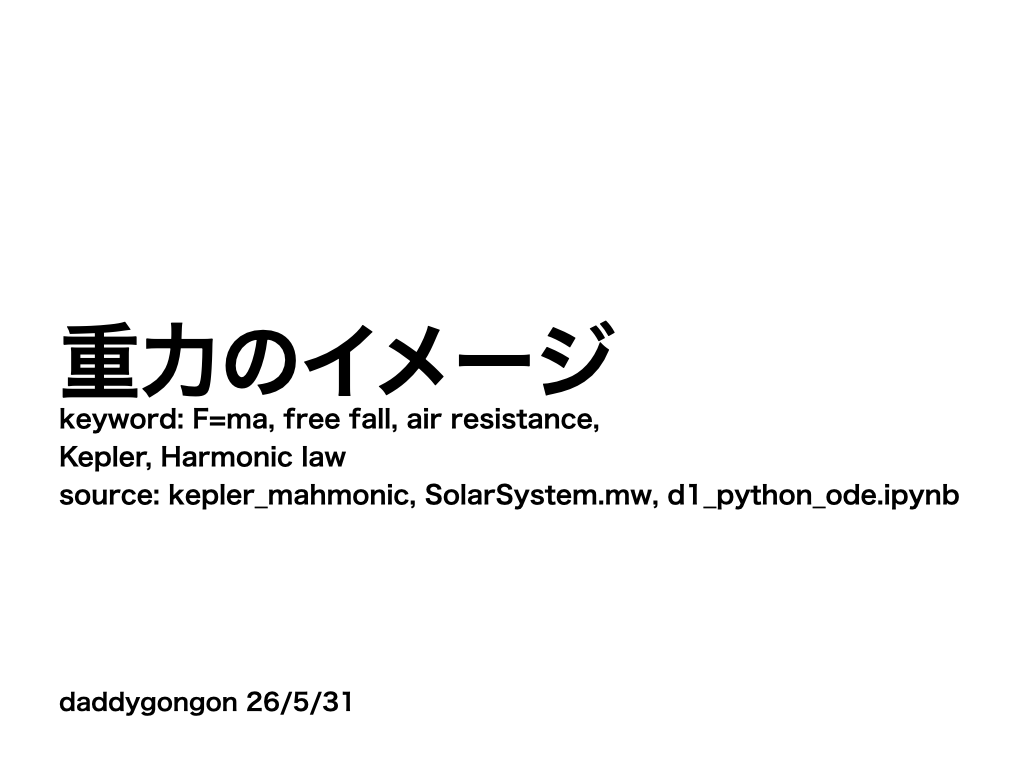
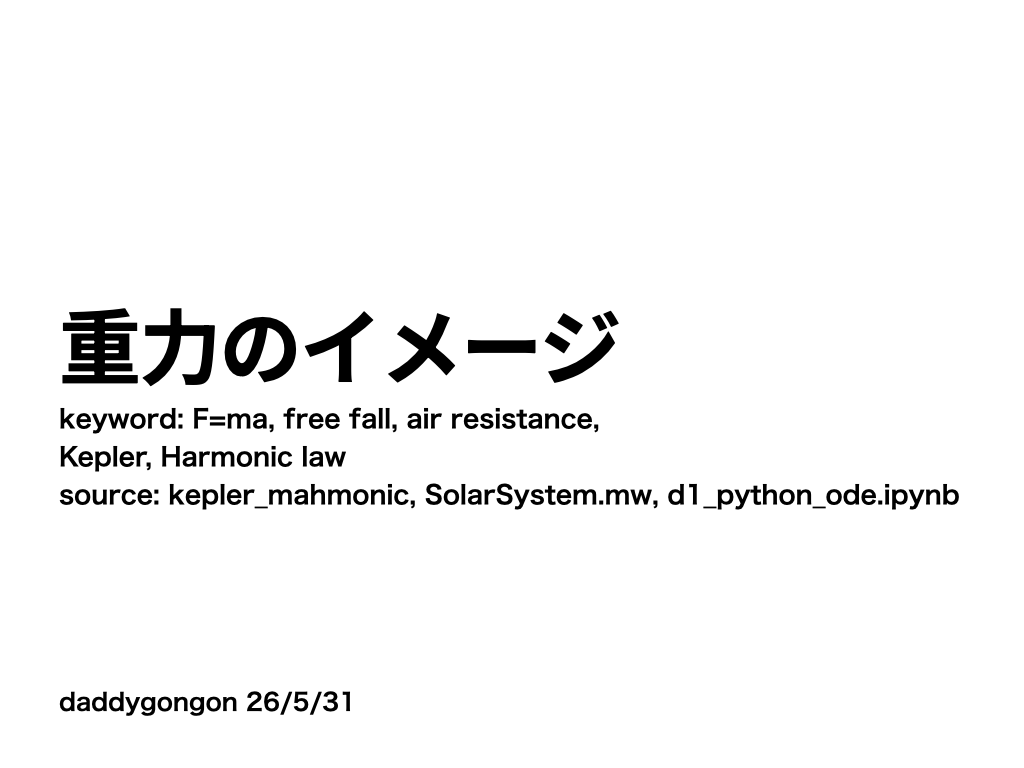
for Kepler revise

Changed region(s): [[0.0625, 0.375, 0.625, 0.5312]]

diff --git a/c2_solar_system/readme.html b/c2_solar_system/readme.html
@@ -3,7 +3,7 @@
 "http://www.w3.org/TR/xhtml1/DTD/xhtml1-strict.dtd">
 <html xmlns="http://www.w3.org/1999/xhtml" lang="jp" xml:lang="jp">
 <head>
-<!-- 2026-06-03 Wed 06:31 -->
+<!-- 2026-06-04 Thu 09:35 -->
 <meta http-equiv="Content-Type" content="text/html;charset=utf-8" />
 <meta name="viewport" content="width=device-width, initial-scale=1" />
 <title>ケプラーの法則イメージ / 卓上スパコン(西谷)</title>
@@ -194,16 +194,59 @@
   .org-svg { }
 </style>
 <link rel="stylesheet" type="text/css" href="style.css" />
+<script>
+  window.MathJax = {
+    tex: {
+      ams: {
+        multlineWidth: '85%'
+      },
+      tags: 'ams',
+      tagSide: 'right',
+      tagIndent: '.8em'
+    },
+    chtml: {
+      scale: 1.0,
+      displayAlign: 'center',
+      displayIndent: '0em'
+    },
+    svg: {
+      scale: 1.0,
+      displayAlign: 'center',
+      displayIndent: '0em'
+    },
+    output: {
+      font: 'mathjax-modern',
+      displayOverflow: 'overflow'
+    }
+  };
+</script>
+
+<script
+  id="MathJax-script"
+  async
+  src="https://cdn.jsdelivr.net/npm/mathjax@3/es5/tex-mml-chtml.js">
+</script>
 </head>
 <body>
 <div id="content" class="content">
 <h1 class="title">ケプラーの法則イメージ / 卓上スパコン(西谷)</h1>
+<div id="table-of-contents" role="doc-toc">
+<h2>Table of Contents</h2>
+<div id="text-table-of-contents" role="doc-toc">
+<ul>
+<li><a href="#org46c952b">1. ケプラーの法則のイメージ(重力場)</a></li>
+<li><a href="#org9e4e8c6">2. 調和の法則(Kepler's third law: Harmonies)</a></li>
+</ul>
+</div>
+</div>
 <p>
 <a href="../c1_outline/readme.html">prev_button</a>
 <a href="../intro_info_26s.html">up_button</a>
 <a href="../c3_linear_algebra_core/readme.html">next_button</a>
 </p>
-
+<div id="outline-container-org46c952b" class="outline-2">
+<h2 id="org46c952b"><span class="section-number-2">1.</span> ケプラーの法則のイメージ(重力場)</h2>
+<div class="outline-text-2" id="text-1">
 <table border="2" cellspacing="0" cellpadding="6" rules="groups" frame="hsides">
 
 
@@ -217,9 +260,112 @@
 </tbody>
 </table>
 </div>
+</div>
+<div id="outline-container-org9e4e8c6" class="outline-2">
+<h2 id="org9e4e8c6"><span class="section-number-2">2.</span> 調和の法則(Kepler's third law: Harmonies)</h2>
+<div class="outline-text-2" id="text-2">
+<table border="2" cellspacing="0" cellpadding="6" rules="groups" frame="hsides">
+
+
+<colgroup>
+<col  class="org-left" />
+
+<col  class="org-right" />
+
+<col  class="org-right" />
+
+<col  class="org-right" />
+
+<col  class="org-right" />
+</colgroup>
+<tbody>
+<tr>
+<td class="org-left">惑星</td>
+<td class="org-right">公転周期(\(T\))</td>
+<td class="org-right">軌道長半径(\(r\))</td>
+<td class="org-right">\(T^2/r^3\)</td>
+<td class="org-right">\(T^2/r^3\)</td>
+</tr>
+
+<tr>
+<td class="org-left">&#xa0;</td>
+<td class="org-right">&#xa0;</td>
+<td class="org-right">&#xa0;</td>
+<td class="org-right">by Copilot</td>
+<td class="org-right">by you</td>
+</tr>
+
+<tr>
+<td class="org-left">水星</td>
+<td class="org-right">0.241</td>
+<td class="org-right">0.387</td>
+<td class="org-right">0.037</td>
+<td class="org-right">&#xa0;</td>
+</tr>
+
+<tr>
+<td class="org-left">金星</td>
+<td class="org-right">0.615</td>
+<td class="org-right">0.723</td>
+<td class="org-right">0.078</td>
+<td class="org-right">&#xa0;</td>
+</tr>
+
+<tr>
+<td class="org-left">地球</td>
+<td class="org-right">1.000</td>
+<td class="org-right">1.000</td>
+<td class="org-right">1.000</td>
+<td class="org-right">1.000</td>
+</tr>
+
+<tr>
+<td class="org-left">火星</td>
+<td class="org-right">1.881</td>
+<td class="org-right">1.524</td>
+<td class="org-right">0.296</td>
+<td class="org-right">&#xa0;</td>
+</tr>
+
+<tr>
+<td class="org-left">木星</td>
+<td class="org-right">11.86</td>
+<td class="org-right">5.203</td>
+<td class="org-right">1.000</td>
+<td class="org-right">&#xa0;</td>
+</tr>
+
+<tr>
+<td class="org-left">土星</td>
+<td class="org-right">29.46</td>
+<td class="org-right">9.537</td>
+<td class="org-right">0.930</td>
+<td class="org-right">&#xa0;</td>
+</tr>
+
+<tr>
+<td class="org-left">天王星</td>
+<td class="org-right">84.01</td>
+<td class="org-right">19.191</td>
+<td class="org-right">1.000</td>
+<td class="org-right">&#xa0;</td>
+</tr>
+
+<tr>
+<td class="org-left">海王星</td>
+<td class="org-right">164.8</td>
+<td class="org-right">30.07</td>
+<td class="org-right">1.000</td>
+<td class="org-right">&#xa0;</td>
+</tr>
+</tbody>
+</table>
+</div>
+</div>
+</div>
 <div id="postamble" class="status">
 <p class="author">Author: Shigeto R. Nishitani</p>
-<p class="date">Created: 2026-06-03 Wed 06:31</p>
+<p class="date">Created: 2026-06-04 Thu 09:35</p>
 <p class="validation"><a href="https://validator.w3.org/check?uri=referer">Validate</a></p>
 </div>
 </body>